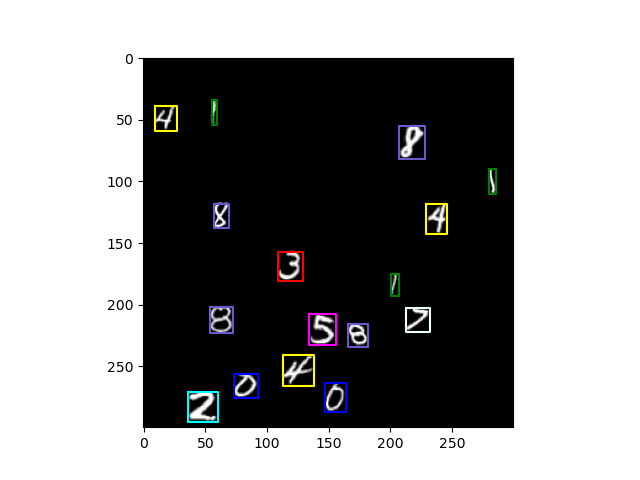
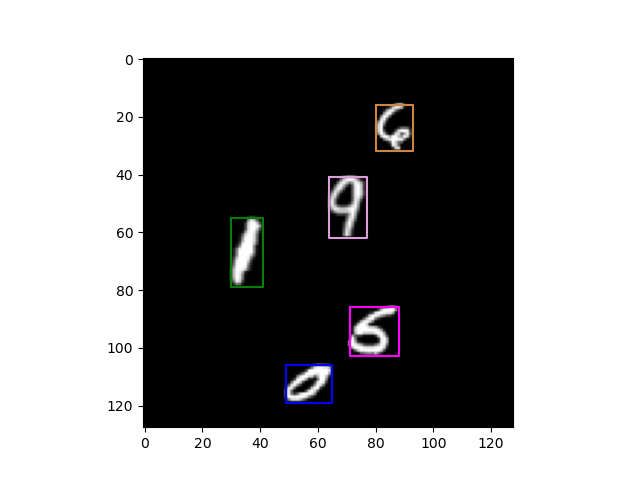
generating dataset done

diff --git a/Trabalho2/Task2/generate_data.py b/Trabalho2/Task2/generate_data.py
@@ -152,7 +152,7 @@ if __name__ == "__main__":
         "--base-path", default="/home/ville/data/savi_datasets/own_dataset/mnist_detection"
     )
     parser.add_argument(
-        "--imsize", default=300, type=int
+        "--imsize", default=128, type=int  #e.g., 100x100 or 128x128
     )
     parser.add_argument(
         "--max-digit-size", default=37, type=int
@@ -161,13 +161,13 @@ if __name__ == "__main__":
         "--min-digit-size", default=22, type=int
     )
     parser.add_argument(
-        "--num-train-images", default=10000, type=int
+        "--num-train-images", default=60000, type=int
     )
     parser.add_argument(
-        "--num-test-images", default=1000, type=int
+        "--num-test-images", default=10000, type=int
     )
     parser.add_argument(
-        "--max-digits-per-image", default=20, type=int
+        "--max-digits-per-image", default=5, type=int
     )
     args = parser.parse_args()
     X_train, Y_train, X_test, Y_test = mnist.load()
